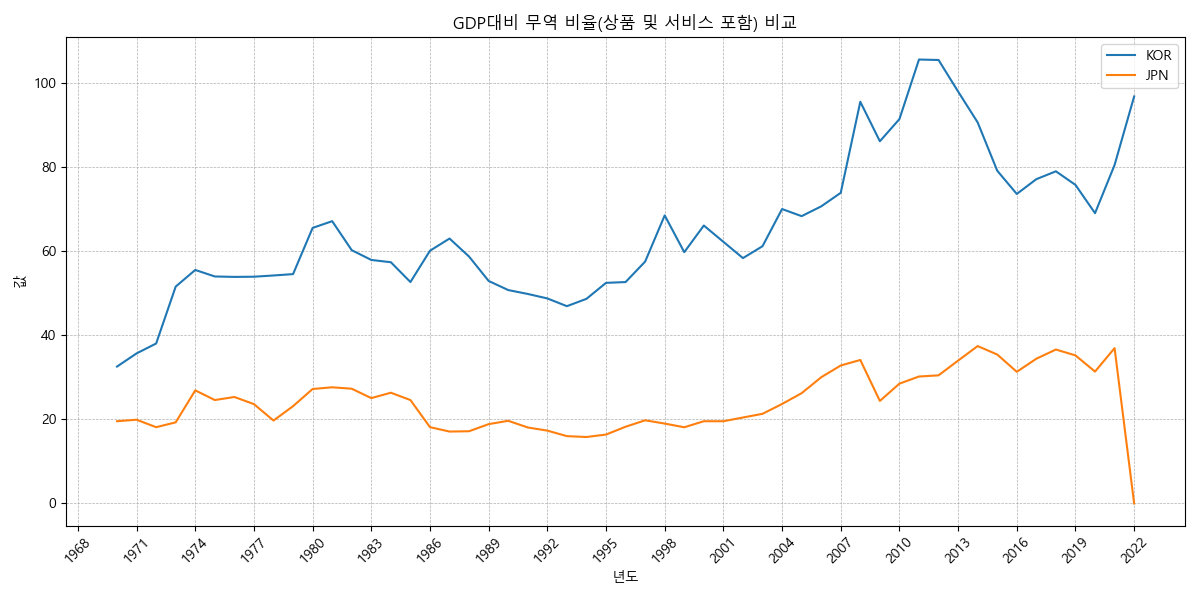
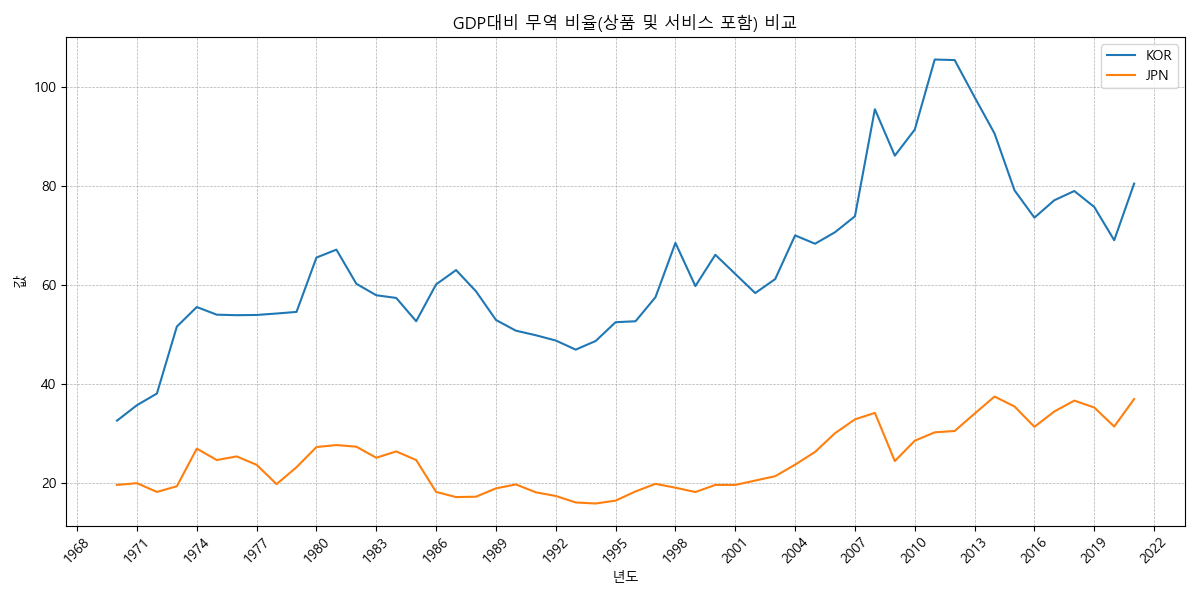
완인가?

diff --git a/Ananalyze.py b/Ananalyze.py
@@ -1,62 +1,82 @@
+import json
 import pandas as pd
-import numpy as np
 import matplotlib.pyplot as plt
-from statsmodels.tsa.arima.model import ARIMA
+import numpy as np
 
-# 데이터 로드 (실제 데이터 파일 경로로 대체)
-# df = pd.read_csv('population_growth.csv')
+# JSON 파일 로드
+with open('K to H.json', 'r', encoding='utf-8') as f:
+    KtoH = json.load(f)
+with open('Processed_data.json', 'r', encoding='utf-8') as f:
+    data = json.load(f)
 
-# 예제 데이터 (실제 데이터를 사용하려면 위의 read_csv 부분을 사용)
-data = {
-    'Year': [2000, 2001, 2002, 2003, 2004, 2005, 2006, 2007, 2008, 2009, 2010],
-    'Korea_Growth_Rate': [1.1, 1.05, 1.02, 1.03, 1.01, 0.98, 0.95, 0.9, 0.85, 0.8, 0.75],
-    'Japan_Growth_Rate': [0.5, 0.48, 0.46, 0.44, 0.42, 0.4, 0.38, 0.36, 0.34, 0.32, 0.3]
-}
+# JSON 데이터를 DataFrame으로 변환 및 전처리
+def preprocess_data(country_data, mapping):
+    processed_data = {}
+    for indicator_key, values in country_data.items():
+        indicator_name = mapping.get(indicator_key, indicator_key)
+        processed_data[indicator_name] = {int(year): value for year, value in values.items()}
+    return processed_data
 
-df = pd.DataFrame(data)
+# 한국 데이터 처리
+kor_data = preprocess_data(data['country/KOR'], KtoH)
 
-# 데이터 시각화
-plt.plot(df['Year'], df['Korea_Growth_Rate'], label='Korea')
-plt.plot(df['Year'], df['Japan_Growth_Rate'], label='Japan')
-plt.xlabel('Year')
-plt.ylabel('Growth Rate')
-plt.title('Population Growth Rate Comparison')
-plt.legend()
-plt.show()
+# 일본 데이터 처리
+jpn_data = preprocess_data(data['country/JPN'], KtoH)
 
-# 상관 분석
-correlation = np.corrcoef(df['Korea_Growth_Rate'], df['Japan_Growth_Rate'])[0, 1]
-print(f"상관계수: {correlation}")
+# 각 지표에 대해 연도별 데이터를 DataFrame으로 변환 및 0인 값 처리
+def create_indicator_df(kor_data, jpn_data):
+    indicators = list(kor_data.keys())
+    combined_data = {indicator: {'Year': [], 'KOR': [], 'JPN': []} for indicator in indicators}
+    
+    for indicator in indicators:
+        years = sorted(set(kor_data[indicator].keys()).union(set(jpn_data[indicator].keys())))
+        kor_values = [kor_data[indicator].get(year, 0) for year in years]
+        jpn_values = [jpn_data[indicator].get(year, 0) for year in years]
 
-# 시계열 분석 및 예측
-korea_growth = df['Korea_Growth_Rate']
+        # 0이 아닌 첫 번째 값의 인덱스 찾기
+        first_nonzero_index_kor = next((i for i, value in enumerate(kor_values) if value != 0), len(kor_values))
+        first_nonzero_index_jpn = next((i for i, value in enumerate(jpn_values) if value != 0), len(jpn_values))
+        first_nonzero_index = max(first_nonzero_index_kor, first_nonzero_index_jpn)
 
-# ARIMA 모델 피팅 (p, d, q 값은 적절히 조정)
-model = ARIMA(korea_growth, order=(1, 1, 1))
-model_fit = model.fit()
+        # 뒤쪽에서 0이 아닌 마지막 값의 인덱스 찾기
+        last_nonzero_index_kor = next((i for i, value in enumerate(reversed(kor_values)) if value != 0), len(kor_values))
+        last_nonzero_index_jpn = next((i for i, value in enumerate(reversed(jpn_values)) if value != 0), len(jpn_values))
+        last_nonzero_index = max(last_nonzero_index_kor, last_nonzero_index_jpn)
 
-# 향후 10년 예측
-forecast_steps = 10
-forecast, stderr, conf_int = model_fit.forecast(steps=forecast_steps)
-years_forecast = range(df['Year'].iloc[-1] + 1, df['Year'].iloc[-1] + forecast_steps + 1)
+        # 0이 아닌 값부터 데이터 저장, 마지막 0 제거
+        if last_nonzero_index != 0:
+            combined_data[indicator]['Year'] = years[first_nonzero_index:len(years) - last_nonzero_index]
+            combined_data[indicator]['KOR'] = kor_values[first_nonzero_index:len(kor_values) - last_nonzero_index]
+            combined_data[indicator]['JPN'] = jpn_values[first_nonzero_index:len(jpn_values) - last_nonzero_index]
+        else:
+            combined_data[indicator]['Year'] = years[first_nonzero_index:]
+            combined_data[indicator]['KOR'] = kor_values[first_nonzero_index:]
+            combined_data[indicator]['JPN'] = jpn_values[first_nonzero_index:]
+    
+    return combined_data
 
-# 예측 결과 시각화
-plt.plot(df['Year'], df['Korea_Growth_Rate'], label='Korea Actual')
-plt.plot(years_forecast, forecast, label='Korea Forecast', linestyle='--')
-plt.xlabel('Year')
-plt.ylabel('Growth Rate')
-plt.title('Korea Population Growth Rate Forecast')
-plt.legend()
-plt.show()
+combined_data = create_indicator_df(kor_data, jpn_data)
 
-# 예측된 성장률과 일본의 과거 성장률 비교
-japan_past_years = df['Year'][-forecast_steps:]
-japan_past_growth = df['Japan_Growth_Rate'][-forecast_steps:]
+# 상관계수 계산 및 출력
+correlation_results = {}
 
-plt.plot(years_forecast, forecast, label='Korea Forecast')
-plt.plot(japan_past_years, japan_past_growth, label='Japan Past', linestyle='--')
-plt.xlabel('Year')
-plt.ylabel('Growth Rate')
-plt.title('Korea Future vs Japan Past Growth Rate')
-plt.legend()
+for indicator, data in combined_data.items():
+    df = pd.DataFrame(data)
+    if not df['KOR'].empty and not df['JPN'].empty:
+        correlation = np.corrcoef(df['KOR'], df['JPN'])[0, 1]
+        correlation_results[indicator] = correlation
+        print(f'{indicator}의 상관계수: {correlation}')
+    else:
+        print(f'{indicator}의 상관계수를 계산할 수 없습니다 (데이터가 부족함).')
+
+plt.rcParams['font.family'] = 'Malgun Gothic'
+plt.rcParams['font.size'] = 10
+plt.rcParams['figure.figsize'] = (12, 6)
+plt.rcParams['axes.unicode_minus'] = False
+# 상관계수 시각화
+plt.barh(list(correlation_results.keys()), list(correlation_results.values()))
+plt.xlabel('상관계수')
+plt.title('각 지표별 한국과 일본의 상관계수')
+plt.grid(True, linestyle='--', linewidth=0.5)
+plt.tight_layout()
 plt.show()

diff --git a/Data_Pretreatment.py b/Data_Pretreatment.py
@@ -22,7 +22,7 @@ kor_data = preprocess_data(data['country/KOR'], KtoH)
 # 일본 데이터 처리
 jpn_data = preprocess_data(data['country/JPN'], KtoH)
 
-# 각 지표에 대해 연도별 데이터를 DataFrame으로 변환 및 앞의 0인 값 제거
+# 각 지표에 대해 연도별 데이터를 DataFrame으로 변환 및 0인 값 처리
 def create_indicator_df(kor_data, jpn_data):
     indicators = list(kor_data.keys())
     combined_data = {indicator: {'Year': [], 'KOR': [], 'JPN': []} for indicator in indicators}
@@ -37,10 +37,20 @@ def create_indicator_df(kor_data, jpn_data):
         first_nonzero_index_jpn = next((i for i, value in enumerate(jpn_values) if value != 0), len(jpn_values))
         first_nonzero_index = max(first_nonzero_index_kor, first_nonzero_index_jpn)
 
-        # 0이 아닌 값부터 데이터 저장
-        combined_data[indicator]['Year'] = years[first_nonzero_index:]
-        combined_data[indicator]['KOR'] = kor_values[first_nonzero_index:]
-        combined_data[indicator]['JPN'] = jpn_values[first_nonzero_index:]
+        # 뒤쪽에서 0이 아닌 마지막 값의 인덱스 찾기
+        last_nonzero_index_kor = next((i for i, value in enumerate(reversed(kor_values)) if value != 0), len(kor_values))
+        last_nonzero_index_jpn = next((i for i, value in enumerate(reversed(jpn_values)) if value != 0), len(jpn_values))
+        last_nonzero_index = max(last_nonzero_index_kor, last_nonzero_index_jpn)
+
+        # 0이 아닌 값부터 데이터 저장, 마지막 0 제거
+        if last_nonzero_index != 0:
+            combined_data[indicator]['Year'] = years[first_nonzero_index:len(years) - last_nonzero_index]
+            combined_data[indicator]['KOR'] = kor_values[first_nonzero_index:len(kor_values) - last_nonzero_index]
+            combined_data[indicator]['JPN'] = jpn_values[first_nonzero_index:len(jpn_values) - last_nonzero_index]
+        else:
+            combined_data[indicator]['Year'] = years[first_nonzero_index:]
+            combined_data[indicator]['KOR'] = kor_values[first_nonzero_index:]
+            combined_data[indicator]['JPN'] = jpn_values[first_nonzero_index:]
     
     return combined_data
 
@@ -55,7 +65,7 @@ plt.rcParams['axes.unicode_minus'] = False
 # 각 지표에 대해 그래프 생성 및 저장
 for indicator, data in combined_data.items():
     df = pd.DataFrame(data)
-    #df를 excel로 저장
+    # df를 excel로 저장
     df.to_excel(f'./excel/{indicator}.xlsx')
     
     plt.plot(df['Year'], df['KOR'], label='KOR')
